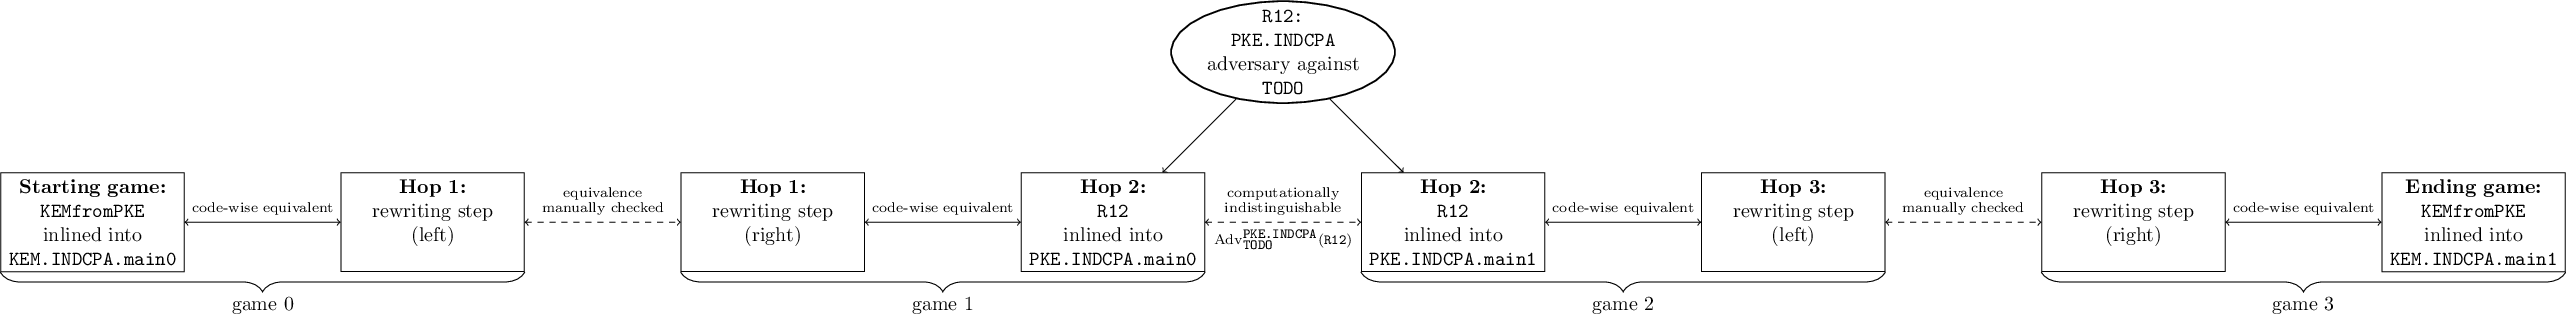
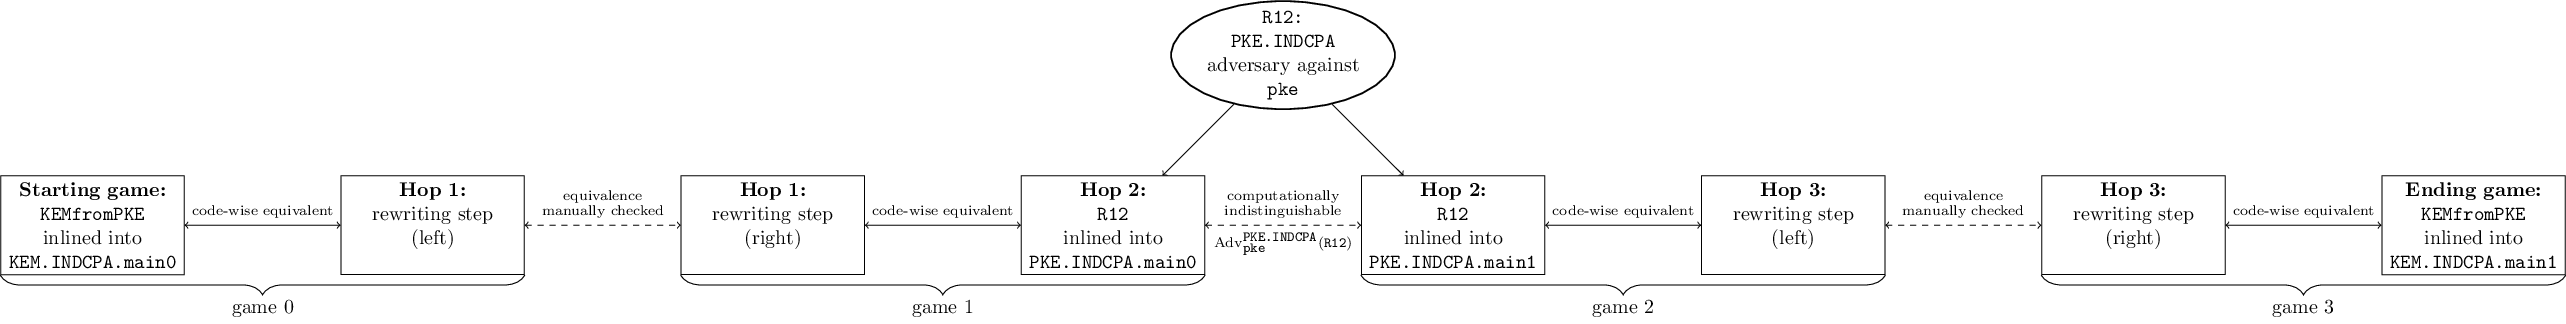
Update gamehop figures to refer to scheme instance

diff --git a/gamehop/templates/tikz_figure.tex b/gamehop/templates/tikz_figure.tex
@@ -72,7 +72,7 @@
 		\node [reduction]
 			(reduction≤≤ loop.index ≥≥)
 			at (≤≤ loop.index * 4 - 1 ≥≥,1)
-			{\texttt{≤≤ proofstep.reduction|classname ≥≥:} \\ \texttt{≤≤ proofstep.experiment|classname ≥≥} \\ adversary against \\ \texttt{TODO}};
+			{\texttt{≤≤ proofstep.reduction|classname ≥≥:} \\ \texttt{≤≤ proofstep.experiment|classname ≥≥} \\ adversary against \\ \texttt{≤≤ proofstep.scheme_instance ≥≥}};
 
 		\draw [->] (reduction≤≤ loop.index ≥≥) -- (hop≤≤ loop.index ≥≥left);
 		\draw [->] (reduction≤≤ loop.index ≥≥) -- (hop≤≤ loop.index ≥≥right);
@@ -81,7 +81,7 @@
 			(hop≤≤ loop.index ≥≥left)
 			--
 			node[mainarrowlabel,above] {computationally \\ indistinguishable}
-			node[mainarrowlabel,below] {$\mathrm{Adv}^{\texttt{≤≤ proofstep.experiment|classname ≥≥}}_{\texttt{TODO}}(\texttt{≤≤ proofstep.reduction|classname ≥≥})$}
+			node[mainarrowlabel,below] {$\mathrm{Adv}^{\texttt{≤≤ proofstep.experiment|classname ≥≥}}_{\texttt{≤≤ proofstep.scheme_instance ≥≥}}(\texttt{≤≤ proofstep.reduction|classname ≥≥})$}
 			(hop≤≤ loop.index ≥≥right);
 	
 	≤% elif proofstep|type == 'rewritingStep' %≥
